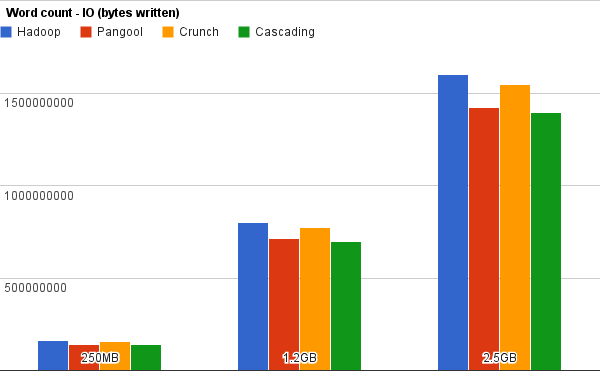
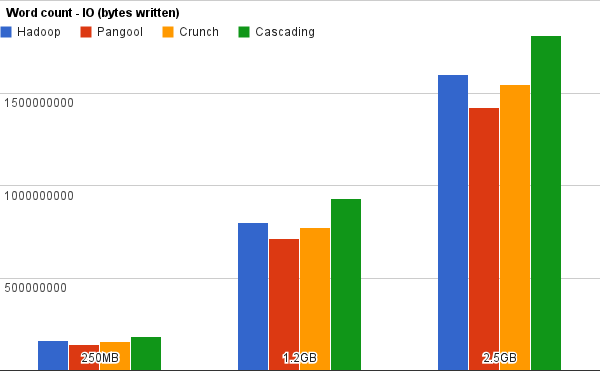
Updates to the benchmark

diff --git a/benchmark.html b/benchmark.html
@@ -113,11 +113,8 @@ These are the results that we obtained in time (seconds) and IO (bytes):
 <img src='images/benchmark/wc_io.png'/>
 </p>
 <p>
-We can see that in this case Hadoop, Pangool (5% worse) and Crunch (9% worse) performed similarly.
+We can see that in this case Hadoop, Pangool (5% worse) and Crunch (9% worse) performed similarly. All three implementations are using Combiners. Cascading had 241% overhead even with the use of its in-memory combiners.
 </p>
-<p>
-In this case, Cascading's overhead (257%) is not very meaningful because its default Word Count implementation doesn't include the use of its in-memory combiners whereas the other implementations (Pangool, Hadoop, Crunch) are already using Combiners.
-<p>
 
 <h1>Conclusions</h1>
 
